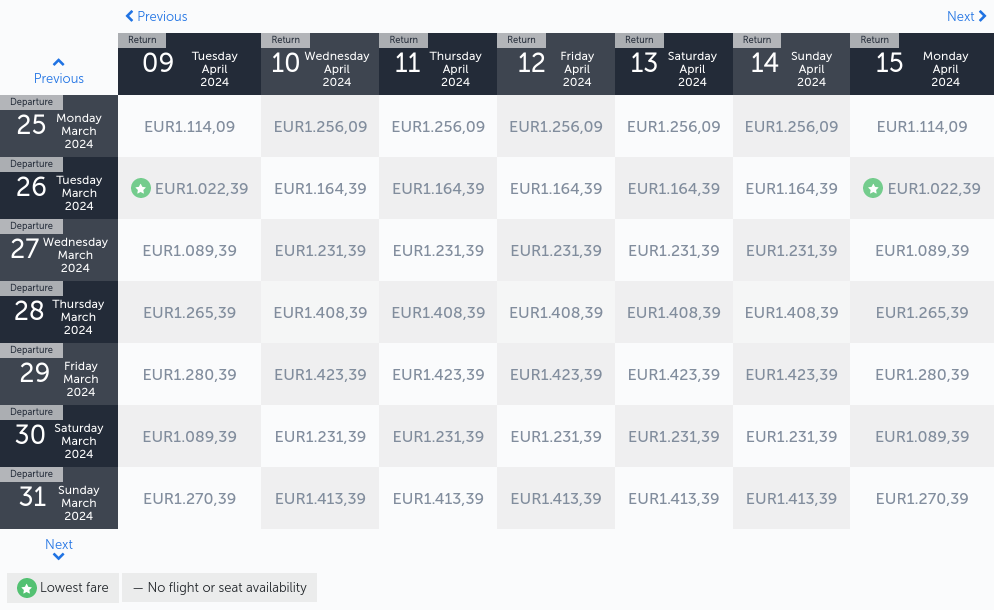
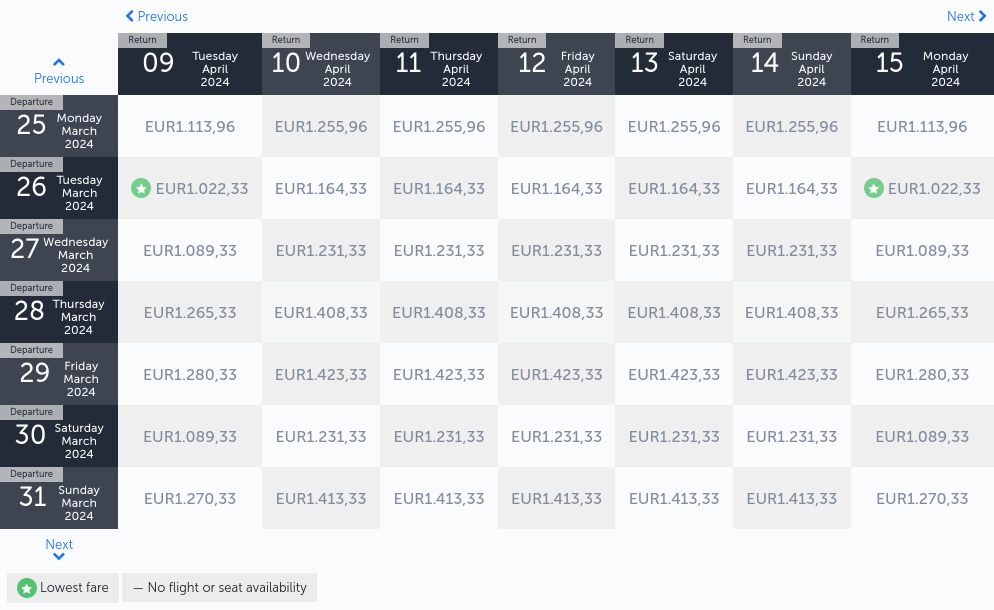
Latest scraping taiwan: Mon Jun 19 22:38:46 UTC 2023

diff --git a/scrapes/taiwan/turkish-airlines.md b/scrapes/taiwan/turkish-airlines.md
@@ -2,13 +2,13 @@
 | --- | --- | --- | --- | --- | --- | --- | --- |
 | Previous | Return<br><br>09 Tuesday April 2024 | Return<br><br>10 Wednesday April 2024 | Return<br><br>11 Thursday April 2024 | Return<br><br>12 Friday April 2024 | Return<br><br>13 Saturday April 2024 | Return<br><br>14 Sunday April 2024 | Return<br><br>15 Monday April 2024 |
 | --- | --- | --- | --- | --- | --- | --- | --- |
-| Departure<br><br>25 Monday March 2024 | 1.114,09 | 1.256,09 | 1.256,09 | 1.256,09 | 1.256,09 | 1.256,09 | 1.114,09 |
-| Departure<br><br>26 Tuesday March 2024 | 1.022,39 | 1.164,39 | 1.164,39 | 1.164,39 | 1.164,39 | 1.164,39 | 1.022,39 |
-| Departure<br><br>27 Wednesday March 2024 | 1.089,39 | 1.231,39 | 1.231,39 | 1.231,39 | 1.231,39 | 1.231,39 | 1.089,39 |
-| Departure<br><br>28 Thursday March 2024 | 1.265,39 | 1.408,39 | 1.408,39 | 1.408,39 | 1.408,39 | 1.408,39 | 1.265,39 |
-| Departure<br><br>29 Friday March 2024 | 1.280,39 | 1.423,39 | 1.423,39 | 1.423,39 | 1.423,39 | 1.423,39 | 1.280,39 |
-| Departure<br><br>30 Saturday March 2024 | 1.089,39 | 1.231,39 | 1.231,39 | 1.231,39 | 1.231,39 | 1.231,39 | 1.089,39 |
-| Departure<br><br>31 Sunday March 2024 | 1.270,39 | 1.413,39 | 1.413,39 | 1.413,39 | 1.413,39 | 1.413,39 | 1.270,39 |
+| Departure<br><br>25 Monday March 2024 | 1.113,96 | 1.255,96 | 1.255,96 | 1.255,96 | 1.255,96 | 1.255,96 | 1.113,96 |
+| Departure<br><br>26 Tuesday March 2024 | 1.022,33 | 1.164,33 | 1.164,33 | 1.164,33 | 1.164,33 | 1.164,33 | 1.022,33 |
+| Departure<br><br>27 Wednesday March 2024 | 1.089,33 | 1.231,33 | 1.231,33 | 1.231,33 | 1.231,33 | 1.231,33 | 1.089,33 |
+| Departure<br><br>28 Thursday March 2024 | 1.265,33 | 1.408,33 | 1.408,33 | 1.408,33 | 1.408,33 | 1.408,33 | 1.265,33 |
+| Departure<br><br>29 Friday March 2024 | 1.280,33 | 1.423,33 | 1.423,33 | 1.423,33 | 1.423,33 | 1.423,33 | 1.280,33 |
+| Departure<br><br>30 Saturday March 2024 | 1.089,33 | 1.231,33 | 1.231,33 | 1.231,33 | 1.231,33 | 1.231,33 | 1.089,33 |
+| Departure<br><br>31 Sunday March 2024 | 1.270,33 | 1.413,33 | 1.413,33 | 1.413,33 | 1.413,33 | 1.413,33 | 1.270,33 |
 | Next |
 | Lowest fare — No flight or seat availability |     |     |     |     |     |     |     |
 
